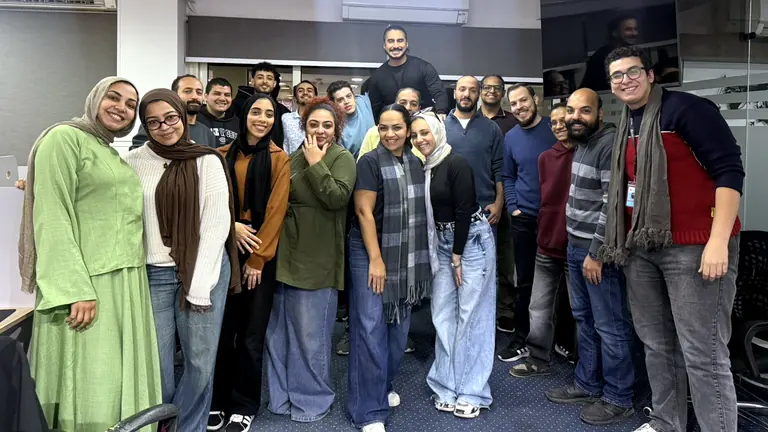
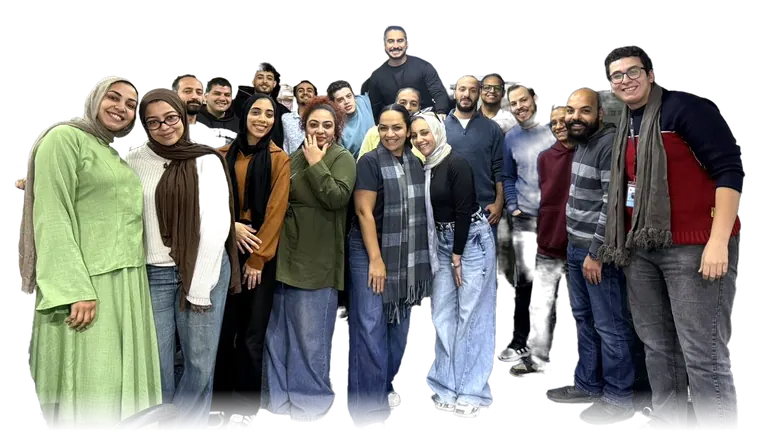
Team photo: people-only cutout, 'Made for the Kalam family' wording
Claude-Session: https://claude.ai/code/session_01K63jUYQAFg96QFSp3oWnoN

diff --git a/index.html b/index.html
@@ -13,7 +13,7 @@
 <link rel="icon" href="img/kalam-mark.png">
 <link rel="preconnect" href="https://fonts.googleapis.com"><link rel="preconnect" href="https://fonts.gstatic.com" crossorigin>
 <link href="https://fonts.googleapis.com/css2?family=Inter:opsz,wght@14..32,400;14..32,500;14..32,600;14..32,700&display=swap" rel="stylesheet">
-<link rel="stylesheet" href="assets/app.css?v=ddca7d57">
+<link rel="stylesheet" href="assets/app.css?v=2c4929c0">
 </head>
 <body>
 <a class="skip" href="#app" id="skip">Skip to main content</a>
@@ -26,6 +26,6 @@
 <main id="app"><p class="loading">Loading the Academy…</p><noscript><p class="loading">Kalam CX Academy needs JavaScript turned on.</p></noscript></main>
 <footer><div class="in"><p id="foot" hidden></p><div class="fl"><img src="img/kalam-logo.png" alt="Kalam CX"><span>Kalam CX · Learning &amp; Development · 2026</span></div></div></footer>
 <div id="ytm" class="ytm" hidden><div class="ytbox" role="dialog" aria-modal="true" aria-labelledby="ytt"><div class="ytframe"></div><div class="ytbar"><div><small id="ytc"></small><b id="ytt"></b></div><div class="ytact"><a id="ytl" class="link" target="_blank" rel="noopener">Open on YouTube</a><button id="ytx" class="pill">Close</button></div></div></div></div>
-<script src="assets/app.js?v=ddca7d57" defer></script>
+<script src="assets/app.js?v=2c4929c0" defer></script>
 </body>
 </html>

diff --git a/assets/app.js b/assets/app.js
@@ -266,7 +266,7 @@ function teamBand(T) {
   if (!T || !T.photo) return '';
   const set = T.photoSmall ? ` srcset="${esc(T.photoSmall)} 768w, ${esc(T.photo)} 1280w" sizes="(max-width:833px) calc(100vw - 44px), 540px"` : '';
   return `<div class="band tight teamb"><div class="in"><div class="team rv"><img src="${esc(T.photo)}"${set} width="1280" height="720" alt="${esc(T.alt || '')}" loading="lazy" decoding="async">
-  <div class="tx">${T.eyebrow ? `<p class="eyebrow">${esc(T.eyebrow)}</p>` : ''}<h2 class="headline small2">${esc(T.title || 'Built by the Kalam team.')}</h2>${T.text ? `<p class="sub">${esc(T.text)}</p>` : ''}</div></div></div></div>`;
+  <div class="tx">${T.eyebrow ? `<p class="eyebrow">${esc(T.eyebrow)}</p>` : ''}<h2 class="headline small2">${esc(T.title || 'Made for the Kalam family.')}</h2>${T.text ? `<p class="sub">${esc(T.text)}</p>` : ''}</div></div></div></div>`;
 }
 function home() {
   const P = App.cat.platform, L = live(), planned = listed().filter(c => c.soon);

diff --git a/assets/app.css b/assets/app.css
@@ -389,7 +389,7 @@ a.ccard:hover{text-decoration:none;transform:translateY(-4px);box-shadow:0 22px 
 .qcard.done small{color:var(--ok)}
 /* team photo band (home) */
 .team{display:grid;grid-template-columns:minmax(0,1.35fr) minmax(0,1fr);gap:48px;align-items:center;background:var(--gray);border-radius:28px;padding:20px 48px 20px 20px}
-.team img{width:100%;height:auto;aspect-ratio:16/9;object-fit:cover;border-radius:18px;display:block;background:var(--line)}
+.team img{width:100%;height:auto;aspect-ratio:16/9;object-fit:contain;display:block}
 .team .headline{margin-bottom:10px}.team .sub{margin:0;font-size:clamp(17px,1.8vw,20px)}
 @media (max-width:833px){.team{grid-template-columns:1fr;gap:22px;padding:14px 14px 26px;border-radius:24px}.team .tx{padding:0 10px}}
 .band.teamb{padding-bottom:56px}
